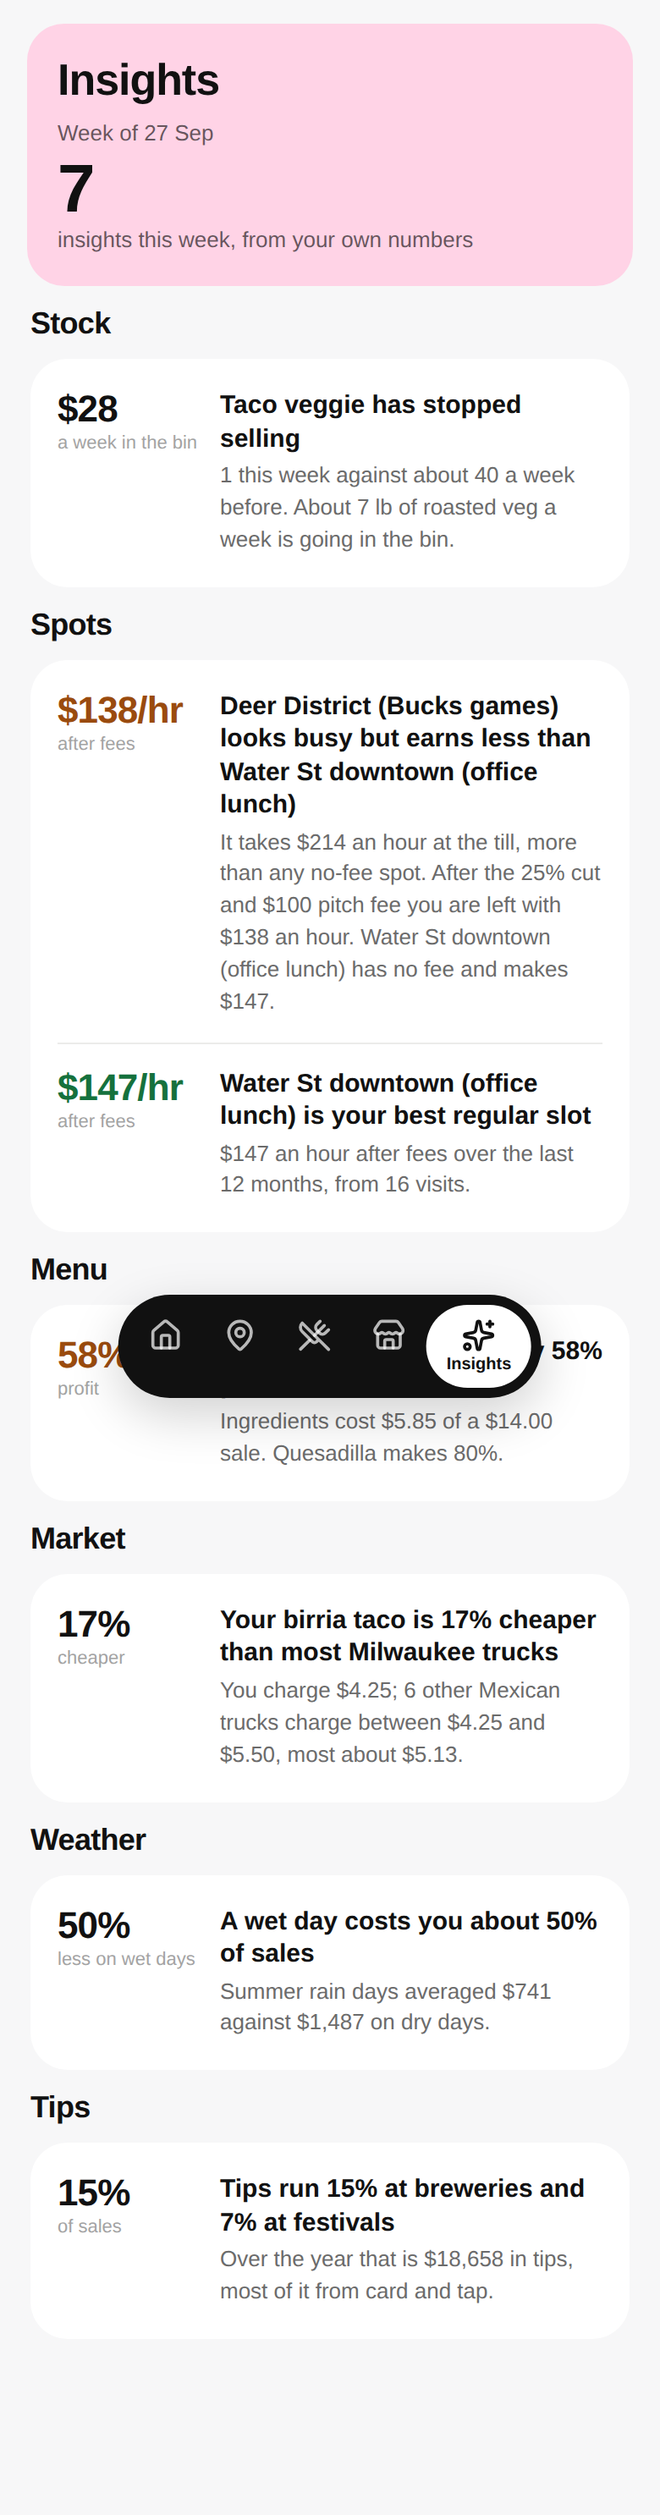
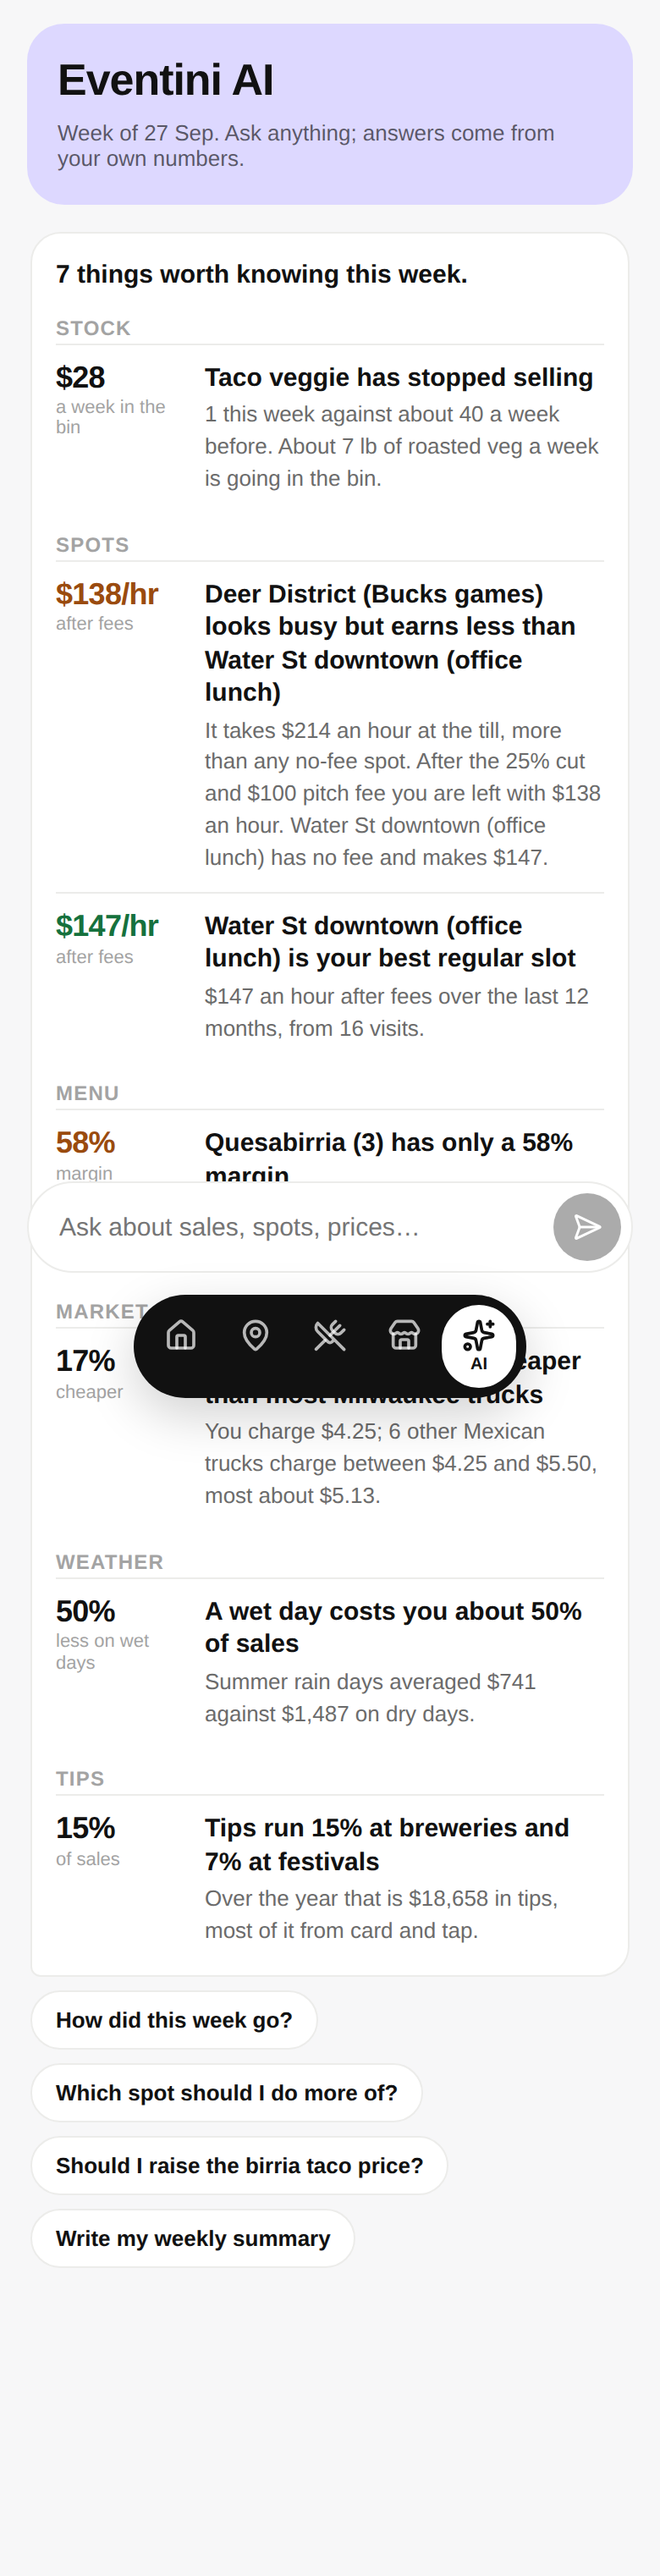
Insights is the AI screen: findings as the opening message, chat beneath
The separate Ask tab goes; the nav is back to five with the last one
labelled AI. The week's findings render as the assistant's first message,
followed by starter questions, the conversation and the input bar.

Claude-Session: https://claude.ai/code/session_011kULvXi1EhLGoQfkcWDNEp

diff --git a/food-truck-app/src/screens/Insights.tsx b/food-truck-app/src/screens/Insights.tsx
@@ -1,73 +1,114 @@
-import { Card } from '../components/ui'
+import { useEffect, useRef, useState } from 'react'
+import { SendHorizontal } from 'lucide-react'
 import { TODAY, money, shortDate } from '../lib/data'
 import { weeklyInsights, type Insight } from '../lib/insights'
 import { stockAlerts } from '../lib/stock'
+import { ask, getPasscode, setPasscode, type ChatMsg } from '../lib/ask'
 
 const ORDER: Insight['section'][] = ['Sales', 'Spots', 'Menu', 'Market', 'Weather', 'Tips']
+const STARTERS = ['How did this week go?', 'Which spot should I do more of?', 'Should I raise the birria taco price?', 'Write my weekly summary']
 
 export default function Insights() {
-  const tips = weeklyInsights()
+  const tips = weeklyInsights().filter((t) => t.id !== 'wow')
   const stock = stockAlerts()
-  const sections = ORDER.map((s) => ({ name: s, items: tips.filter((t) => t.section === s && t.id !== 'wow') })).filter((s) => s.items.length)
+  const sections = ORDER.map((s) => ({ name: s, items: tips.filter((t) => t.section === s) })).filter((s) => s.items.length)
+
+  const [msgs, setMsgs] = useState<ChatMsg[]>([])
+  const [q, setQ] = useState('')
+  const [busy, setBusy] = useState(false)
+  const [err, setErr] = useState<string | null>(null)
+  const [needPass, setNeedPass] = useState(false)
+  const [pass, setPass] = useState(getPasscode())
+  const endRef = useRef<HTMLDivElement>(null)
+  useEffect(() => { if (msgs.length || busy) endRef.current?.scrollIntoView({ behavior: 'smooth' }) }, [msgs, busy])
+
+  async function send(text: string) {
+    const question = text.trim()
+    if (!question || busy) return
+    setErr(null); setQ('')
+    const next = [...msgs, { role: 'user' as const, content: question }]
+    setMsgs(next); setBusy(true)
+    const r = await ask(question, msgs)
+    setBusy(false)
+    if (r.needPasscode) { setNeedPass(true); setMsgs(msgs); setQ(question); return }
+    if (r.error) { setErr(r.error); setMsgs(msgs); setQ(question); return }
+    setMsgs([...next, { role: 'assistant', content: r.answer ?? '' }])
+  }
 
   return (
     <>
-      <section className="block-hero pink page">
-        <header className="top">
-          <h1>Insights</h1>
-        </header>
-        <div className="label">Week of {shortDate(TODAY)}</div>
-        <div className="big">{tips.filter((t) => t.id !== 'wow').length + stock.length}</div>
-        <div className="label">insights this week, from your own numbers</div>
+      <section className="block-hero lilac page">
+        <header className="top"><h1>Eventini AI</h1></header>
+        <div className="label">Week of {shortDate(TODAY)}. Ask anything; answers come from your own numbers.</div>
       </section>
 
-      {stock.length > 0 && (
-        <section className="block">
-          <h2>Stock</h2>
-          <Card className="rows">
-            {stock.map((s) => (
-              <details key={s.id} className="irow">
-                <summary>
-                  <span className="fig">{money(s.wastePerWeek)}<em>a week in the bin</em></span>
-                  <span className="txt">
-                    <b>{s.item.name} has stopped selling</b>
-                    <span>{s.unitsNow} this week against about {s.unitsBase} a week before. About {s.surplusLabel} of {s.ingredient} a week is going in the bin.</span>
-                  </span>
-                </summary>
-                <div className="irow-body">
-                  <p><b>First:</b> {s.prepLine}</p>
-                  <p><b>This week:</b> {s.dealLine}</p>
-                  <p><b>Or:</b> {s.freeLine}</p>
-                  <p className="muted">How: units per 100 orders this week against the previous 8 weeks, so a quiet week or a different venue does not count.</p>
-                </div>
-              </details>
-            ))}
-          </Card>
-        </section>
+      {needPass && (
+        <div className="card passbox">
+          <b>Passcode</b>
+          <p className="sub">This demo needs a passcode to use the AI.</p>
+          <div className="row">
+            <input value={pass} onChange={(e) => setPass(e.target.value)} placeholder="passcode" />
+            <button className="btn" onClick={() => { setPasscode(pass); setNeedPass(false); if (q) send(q) }}>Save</button>
+          </div>
+        </div>
       )}
 
-      {sections.map((sec) => (
-        <section className="block" key={sec.name}>
-          <h2>{sec.name}</h2>
-          <Card className="rows">
-            {sec.items.map((t) => (
-              <details key={t.id} className="irow">
-                <summary>
-                  <span className={`fig ${t.tone}`}>{t.figure}<em>{t.figureNote}</em></span>
-                  <span className="txt">
-                    <b>{t.title}</b>
-                    <span>{t.body}</span>
-                  </span>
-                </summary>
-                <div className="irow-body">
-                  {t.action && <p>{t.action}</p>}
-                  <p className="muted">How: {t.evidence}</p>
-                </div>
-              </details>
-            ))}
-          </Card>
-        </section>
-      ))}
+      <div className="chat">
+        {/* The AI's opening message: this week's findings */}
+        <div className="bubble assistant opener">
+          <p className="opener-lead">{tips.length + stock.length} things worth knowing this week.</p>
+          {stock.length > 0 && (
+            <div className="sec">
+              <h3>Stock</h3>
+              {stock.map((s) => (
+                <details key={s.id} className="irow">
+                  <summary>
+                    <span className="fig">{money(s.wastePerWeek)}<em>a week in the bin</em></span>
+                    <span className="txt"><b>{s.item.name} has stopped selling</b><span>{s.unitsNow} this week against about {s.unitsBase} a week before. About {s.surplusLabel} of {s.ingredient} a week is going in the bin.</span></span>
+                  </summary>
+                  <div className="irow-body">
+                    <p><b>First:</b> {s.prepLine}</p>
+                    <p><b>This week:</b> {s.dealLine}</p>
+                    <p><b>Or:</b> {s.freeLine}</p>
+                  </div>
+                </details>
+              ))}
+            </div>
+          )}
+          {sections.map((sec) => (
+            <div className="sec" key={sec.name}>
+              <h3>{sec.name}</h3>
+              {sec.items.map((t) => (
+                <details key={t.id} className="irow">
+                  <summary>
+                    <span className={`fig ${t.tone}`}>{t.figure}<em>{t.figureNote}</em></span>
+                    <span className="txt"><b>{t.title}</b><span>{t.body}</span></span>
+                  </summary>
+                  <div className="irow-body">
+                    {t.action && <p>{t.action}</p>}
+                    <p className="muted">How: {t.evidence}</p>
+                  </div>
+                </details>
+              ))}
+            </div>
+          ))}
+        </div>
+
+        {msgs.length === 0 && (
+          <div className="starters">
+            {STARTERS.map((s) => <button key={s} className="starter" onClick={() => send(s)}>{s}</button>)}
+          </div>
+        )}
+        {msgs.map((m, i) => <div key={i} className={`bubble ${m.role}`}>{m.content}</div>)}
+        {busy && <div className="bubble assistant thinking">…</div>}
+        {err && <div className="bubble error">{err}</div>}
+        <div ref={endRef} />
+      </div>
+
+      <form className="askbar" onSubmit={(e) => { e.preventDefault(); send(q) }}>
+        <input value={q} onChange={(e) => setQ(e.target.value)} placeholder="Ask about sales, spots, prices…" disabled={busy} />
+        <button type="submit" aria-label="Send" disabled={busy || !q.trim()}><SendHorizontal size={18} /></button>
+      </form>
     </>
   )
 }

diff --git a/food-truck-app/src/components/ui.tsx b/food-truck-app/src/components/ui.tsx
@@ -1,6 +1,6 @@
 import React, { useState, type ReactNode } from 'react'
 import { NavLink } from 'react-router-dom'
-import { Home as HomeIcon, MapPin, UtensilsCrossed, Store, Sparkles, MessageCircle } from 'lucide-react'
+import { Home as HomeIcon, MapPin, UtensilsCrossed, Store, Sparkles } from 'lucide-react'
 import { RANGES, money, type RangeKey } from '../lib/data'
 
 export function Card({ children, className = '', onClick }: { children: ReactNode; className?: string; onClick?: () => void }) {
@@ -41,7 +41,7 @@ export function Pills({ value, onChange }: { value: RangeKey; onChange: (k: Rang
 
 export function Nav() {
   const items: [string, string, React.ComponentType<{ size?: number; strokeWidth?: number }>][] = [
-    ['/', 'Home', HomeIcon], ['/spots', 'Spots', MapPin], ['/menu', 'Menu', UtensilsCrossed], ['/market', 'Market', Store], ['/insights', 'Insights', Sparkles], ['/ask', 'Ask', MessageCircle],
+    ['/', 'Home', HomeIcon], ['/spots', 'Spots', MapPin], ['/menu', 'Menu', UtensilsCrossed], ['/market', 'Market', Store], ['/insights', 'AI', Sparkles],
   ]
   return (
     <nav className="nav">

diff --git a/food-truck-app/src/app.css b/food-truck-app/src/app.css
@@ -479,3 +479,12 @@ body, .shell { font-family: 'Plus Jakarta Sans', -apple-system, sans-serif; }
 .passbox { display: flex; flex-direction: column; gap: 8px; }
 .passbox input { flex: 1; border: 1px solid var(--line); border-radius: 12px; padding: 10px 12px; font: inherit; }
 .nav a { padding: 8px 10px; }
+
+/* insights as the AI's opening message */
+.bubble.opener { max-width: 100%; align-self: stretch; padding: 14px 14px 6px; }
+.opener-lead { margin: 0 0 6px; font-weight: 700; font-size: 15px; }
+.opener .sec h3 { margin: 10px 0 0; font-size: 12px; text-transform: uppercase; letter-spacing: 0.05em; color: var(--ink-3); }
+.opener .irow summary { grid-template-columns: 76px 1fr; padding: 10px 0; }
+.opener .fig { font-size: 18px; }
+.opener .irow-body { padding-left: 88px; }
+.nav a { padding: 8px 12px; }

diff --git a/food-truck-app/src/screens/Home.tsx b/food-truck-app/src/screens/Home.tsx
@@ -94,7 +94,7 @@ export default function Home({ range, setRange }: { range: RangeKey; setRange: (
           <span className="bento-num">{money(now.tips)}</span><span className="bento-sub">tips</span><Chg v={pctChange(now.tips, prev.tips)} label={label} />
         </button>
         <Link to="/insights" className="bento-card pink wide">
-          <span className="tag">Insights</span>
+          <span className="tag">Eventini AI</span>
           <span className="bento-title">{tips.length + stock.length} things worth knowing this week</span>
           <span className="bento-sub">{stock[0] ? `${stock[0].item.name} has stopped selling. ` : ''}{tips.find((t) => t.id === 'fees')?.short ?? tips[0]?.short}.</span>
           <ArrowRight className="corner" size={20} />

diff --git a/food-truck-app/src/App.tsx b/food-truck-app/src/App.tsx
@@ -9,7 +9,6 @@ import Spots from './screens/Spots'
 import Insights from './screens/Insights'
 import History from './screens/History'
 import Money from './screens/Money'
-import Ask from './screens/Ask'
 import './app.css'
 
 export default function App() {
@@ -27,7 +26,7 @@ export default function App() {
           <Route path="/tips" element={<Insights />} />
           <Route path="/history/:metric" element={<History />} />
           <Route path="/money" element={<Money />} />
-          <Route path="/ask" element={<Ask />} />
+          <Route path="/ask" element={<Insights />} />
         </Routes>
         <Nav />
       </main>
